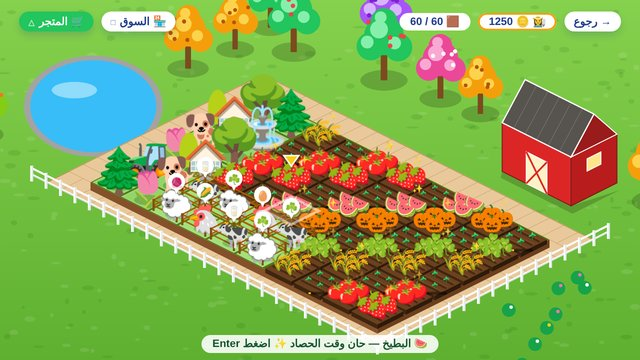
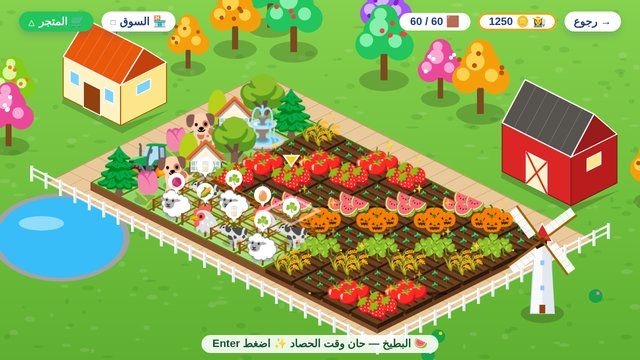
لعبة المزارع: بيت المزرعة وطاحونة بأجنحة تدور
Claude-Session: https://claude.ai/code/session_01WBYvmntiyAx8Nd8JRhxuKx

diff --git a/home-nas/games/لعبة المزارع/art.js b/home-nas/games/لعبة المزارع/art.js
@@ -72,26 +72,61 @@ window.FA = (() => {
     c.fillStyle = col[2];
     for (let i = 0; i < 5; i++) { c.beginPath(); c.arc(px + (r() - 0.5) * k * 0.9, py - k * (0.65 + r() * 0.6), k * 0.05, 0, 7); c.fill(); }
   }
-  function barn(c, x, y, w, d, h) {
-    const T = (p) => up(p, TH * h * 2), rh = TH * 1.1;
+  const BARN = { front: "#dc2626", side: "#b91c1c", line: "#7f1d1d", door: "#fef3c7", cross: "#dc2626", gable: "#991b1b", roof: "#57534e", win: "#fde68a" };
+  const HOUSE = { front: "#fef3c7", side: "#fde68a", line: "#a16207", door: "#92400e", cross: null, gable: "#c2410c", roof: "#ea580c", win: "#7dd3fc", chimney: true };
+  function barn(c, x, y, w, d, h, K = BARN) {
+    const T = (p) => up(p, TH * h * 2), rh = TH * (K.chimney ? 0.9 : 1.1);
     const A = P(x, y), B = P(x + w, y), Cc = P(x + w, y + d), Dd = P(x, y + d);
     c.fillStyle = "rgba(0,0,0,.2)"; poly(c, [P(x + 0.2, y + d + 0.25), P(x + w + 0.3, y + d + 0.25), P(x + w + 0.3, y + 0.2), Cc, Dd], "rgba(0,0,0,.18)");
-    poly(c, [Dd, Cc, T(Cc), T(Dd)], "#dc2626", "#7f1d1d", 2);         // الواجهة
-    poly(c, [Cc, B, T(B), T(Cc)], "#b91c1c", "#7f1d1d", 2);           // الجانب
+    poly(c, [Dd, Cc, T(Cc), T(Dd)], K.front, K.line, 2);         // الواجهة
+    poly(c, [Cc, B, T(B), T(Cc)], K.side, K.line, 2);           // الجانب
     // الباب
     const d0 = P(x + w * 0.35, y + d), d1 = P(x + w * 0.65, y + d), dh = TH * h * 1.3;
-    poly(c, [d0, d1, up(d1, dh), up(d0, dh)], "#fef3c7", "#fff", 2);
-    c.strokeStyle = "#dc2626"; c.lineWidth = Math.max(2, TW * 0.03);
-    c.beginPath(); c.moveTo(...d0); c.lineTo(...up(d1, dh)); c.moveTo(...d1); c.lineTo(...up(d0, dh)); c.stroke();
+    poly(c, [d0, d1, up(d1, dh), up(d0, dh)], K.door, "#fff", 2);
+    if (K.cross) {
+      c.strokeStyle = K.cross; c.lineWidth = Math.max(2, TW * 0.03);
+      c.beginPath(); c.moveTo(...d0); c.lineTo(...up(d1, dh)); c.moveTo(...d1); c.lineTo(...up(d0, dh)); c.stroke();
+    } else {
+      // نافذتان في الواجهة للبيت
+      for (const u of [0.12, 0.72]) { const a = P(x + w * u, y + d), b = P(x + w * (u + 0.16), y + d); poly(c, [up(a, TH * h * 0.9), up(b, TH * h * 0.9), up(b, TH * h * 1.5), up(a, TH * h * 1.5)], K.win, "#fff", 2); }
+    }
     // نافذة في الجانب
     const w0 = P(x + w, y + d * 0.35), w1 = P(x + w, y + d * 0.65);
-    poly(c, [up(w0, TH * h * 1.1), up(w1, TH * h * 1.1), up(w1, TH * h * 1.6), up(w0, TH * h * 1.6)], "#fde68a", "#fff", 2);
+    poly(c, [up(w0, TH * h * 1.1), up(w1, TH * h * 1.1), up(w1, TH * h * 1.6), up(w0, TH * h * 1.6)], K.win, "#fff", 2);
     // السقف
     const R1 = up(P(x, y + d / 2), TH * h * 2 + rh), R2 = up(P(x + w, y + d / 2), TH * h * 2 + rh);
-    poly(c, [T(B), T(Cc), R2], "#991b1b", "#fff", 2);
-    poly(c, [T(Dd), T(Cc), R2, R1], "#57534e", "#fff", 2.5);
+    poly(c, [T(B), T(Cc), R2], K.gable, "#fff", 2);
+    if (K.chimney) { const q = P(x + w * 0.25, y + d * 0.3), ch = TH * h * 2 + rh * 1.2; poly(c, [up(q, TH * h * 2), up([q[0] + TW * 0.12, q[1]], TH * h * 2), up([q[0] + TW * 0.12, q[1]], ch), up(q, ch)], "#9ca3af", "#6b7280", 2); }
+    poly(c, [T(Dd), T(Cc), R2, R1], K.roof, "#fff", 2.5);
     c.strokeStyle = "rgba(255,255,255,.25)"; c.lineWidth = 1;
     for (let i = 1; i < 6; i++) { const a = P(x + (w * i) / 6, y + d), b = P(x + (w * i) / 6, y + d / 2); c.beginPath(); c.moveTo(...up(a, TH * h * 2)); c.lineTo(...up(b, TH * h * 2 + rh)); c.stroke(); }
+  }
+  // الطاحونة: البرج في الخلفية، والأجنحة تدور في كل إطار
+  let MILL = null;
+  function millTower(c, x, y) {
+    const [px, py] = P(x, y), w = TW * 0.42, h = TW * 1.25;
+    c.fillStyle = "rgba(0,0,0,.18)"; c.beginPath(); c.ellipse(px, py, w * 0.9, w * 0.4, 0, 0, 7); c.fill();
+    poly(c, [[px - w / 2, py], [px + w / 2, py], [px + w * 0.32, py - h], [px - w * 0.32, py - h]], "#f8fafc", "#cbd5e1", 2);
+    poly(c, [[px, py], [px + w / 2, py], [px + w * 0.32, py - h], [px, py - h]], "#e2e8f0");
+    for (const k of [0.35, 0.7]) { c.fillStyle = "#93c5fd"; c.fillRect(px - w * 0.08, py - h * k - w * 0.12, w * 0.16, w * 0.2); }
+    c.fillStyle = "#92400e"; c.fillRect(px - w * 0.12, py - w * 0.36, w * 0.24, w * 0.36);
+    poly(c, [[px - w * 0.42, py - h], [px + w * 0.42, py - h], [px, py - h - w * 0.75]], "#dc2626", "#fff", 2);
+    MILL = [px, py - h - w * 0.05, TW * 0.75];
+  }
+  function millBlades(T) {
+    if (!MILL) return;
+    const [hx, hy, L] = MILL, a0 = T * (lite ? 0.6 : 1.1);
+    ctx.save(); ctx.translate(hx, hy);
+    for (let k = 0; k < 4; k++) {
+      ctx.save(); ctx.rotate(a0 + (k * Math.PI) / 2);
+      ctx.fillStyle = "#a16207"; ctx.fillRect(-L * 0.025, 0, L * 0.05, L);
+      ctx.fillStyle = "rgba(255,255,255,.92)"; ctx.fillRect(L * 0.03, L * 0.22, L * 0.2, L * 0.76);
+      ctx.strokeStyle = "#d6d3d1"; ctx.lineWidth = 1;
+      for (let j = 1; j < 5; j++) { ctx.beginPath(); ctx.moveTo(L * 0.03, L * (0.22 + j * 0.15)); ctx.lineTo(L * 0.23, L * (0.22 + j * 0.15)); ctx.stroke(); }
+      ctx.restore();
+    }
+    ctx.fillStyle = "#78350f"; ctx.beginPath(); ctx.arc(0, 0, L * 0.07, 0, 7); ctx.fill();
+    ctx.restore();
   }
   function pond(c, x, y, rx, ry) {
     const [px, py] = P(x, y);
@@ -120,7 +155,7 @@ window.FA = (() => {
       c.beginPath(); c.ellipse(r() * W, r() * H, 3 + r() * 10, 2 + r() * 4, 0, 0, 7); c.fill();
     }
     // البركة على اليسار
-    pond(c, -2.6, R * 0.55, 2.2, 1.6);
+    pond(c, 1.4, R + M + 1.7, 2.2, 1.4);
     // الممر الحجري حول الحقل
     poly(c, quad(-M, -M, C + M, R + M), "#e9c99b", "#c79f6a", 2);
     c.strokeStyle = "rgba(160,110,60,.45)"; c.lineWidth = 1;
@@ -136,16 +171,22 @@ window.FA = (() => {
     const bx = C - 3.2, by = -M - 2.4;
     things.push({ d: bx + by + 3.5, f: () => barn(c, bx, by, 2.4, 1.6, 0.85) });
     const COLS = [["#f59e0b", "#fcd34d", "#b45309"], ["#a855f7", "#d8b4fe", "#7e22ce"], ["#22c55e", "#86efac", "#ef4444"], ["#ec4899", "#f9a8d4", "#fff"], ["#84cc16", "#d9f99d", "#f97316"]];
-    const free = (x, y) => !(x > bx - 1.2 && x < bx + 3.4 && y > by - 1.2 && y < by + 2.6);
+    // بيتنا (يسار الحقل) والطاحونة (خلفه)
+    const hx = -M - 2.7, hy = 1.9, mx = C + M + 1.7, my = R * 0.45;
+    things.push({ d: hx + hy + 3, f: () => barn(c, hx, hy, 2, 1.6, 0.7, HOUSE) });
+    const near = (x, y, ax, ay, w, d) => x > ax - 1.2 && x < ax + w + 0.8 && y > ay - 1.2 && y < ay + d + 0.8;
+    const free = (x, y) => !near(x, y, bx, by, 2.4, 1.6) && !near(x, y, hx, hy, 2, 1.6) && !near(x, y, mx - 0.5, my - 0.5, 1, 1);
     for (let x = -M - 1.5; x < C + 2.5; x += 1.15 + r() * 0.5) { const y = -M - 1 - r() * 2.4; if (free(x, y)) things.push({ d: x + y, f: ((x, y, k) => () => tree(c, x, y, COLS[k], 0.62 + r() * 0.25, r))(x, y, (r() * 5) | 0) }); }
-    for (let y = -M - 0.4; y < R + 1; y += 1.2 + r() * 0.5) { if (y > R * 0.55 - 1.8 && y < R * 0.55 + 1.8) continue; const x = -M - 1 - r() * 2.2; things.push({ d: x + y, f: ((x, y, k) => () => tree(c, x, y, COLS[k], 0.6 + r() * 0.25, r))(x, y, (r() * 5) | 0) }); }
+    for (let y = -M - 0.4; y < R + 1; y += 1.2 + r() * 0.5) { const x = -M - 1 - r() * 2.2; if (!free(x, y)) continue; things.push({ d: x + y, f: ((x, y, k) => () => tree(c, x, y, COLS[k], 0.6 + r() * 0.25, r))(x, y, (r() * 5) | 0) }); }
     things.sort((a, b) => a.d - b.d).forEach((o) => o.f());
     // السياج الأبيض أمام الحقل
     fence(c, C + M + 0.25, -M - 0.3, C + M + 0.25, R + M + 0.25);
     fence(c, -M - 0.3, R + M + 0.25, C + M + 0.25, R + M + 0.25);
+    millTower(c, mx, my);
     // شجيرات وزهور في الأمام
     for (let i = 0; i < 9; i++) {
       const x = C + M + 0.9 + r() * 2.5, y = -M + r() * (R + 2 * M);
+      if (Math.abs(x - mx) < 1 && Math.abs(y - my) < 1) continue;
       const [px, py] = P(x, y); c.fillStyle = "#16a34a"; c.beginPath(); c.arc(px, py - TH * 0.25, TW * 0.12, 0, 7); c.fill();
       c.fillStyle = ["#f472b6", "#facc15", "#fff"][i % 3]; c.beginPath(); c.arc(px + TW * 0.04, py - TH * 0.35, TW * 0.03, 0, 7); c.fill();
     }
@@ -245,6 +286,7 @@ window.FA = (() => {
         if (cur && cur.x === x && cur.y === y) tops.push(() => cursor(x, y, cur, T));
       }
     }
+    millBlades(T);
     tops.forEach((fn) => fn());
   }
   function cursor(x, y, cur, T) {
